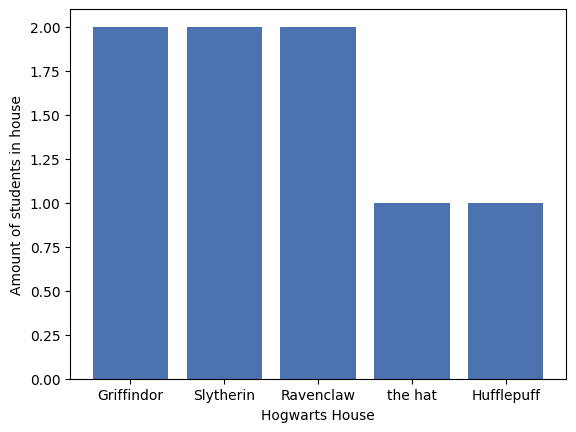
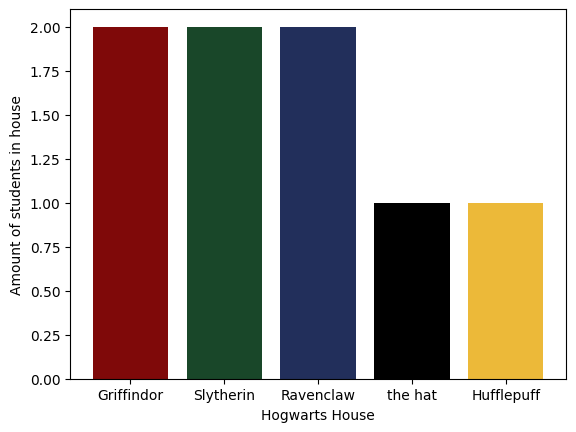
added the colors

diff --git a/main.py b/main.py
@@ -24,8 +24,10 @@ plt.close()
 
 # BAR CHART
 hog_house = df['Hogwarts House'].value_counts()
-colors = ["#7F0909","#194729","#222F5B","#ecb939"]
-plt.bar(hog_house.index, hog_house.values)
+colors = ["#7F0909","#194729","#222F5B","#000000","#ecb939"]
+plt.bar(hog_house.index, hog_house.values, color=colors[:len(hog_house)])
 plt.xlabel('Hogwarts House')
 plt.ylabel('Amount of students in house')
 plt.savefig('hog_house_bar.png', bbox_inches='tight')
+plt.show
+
